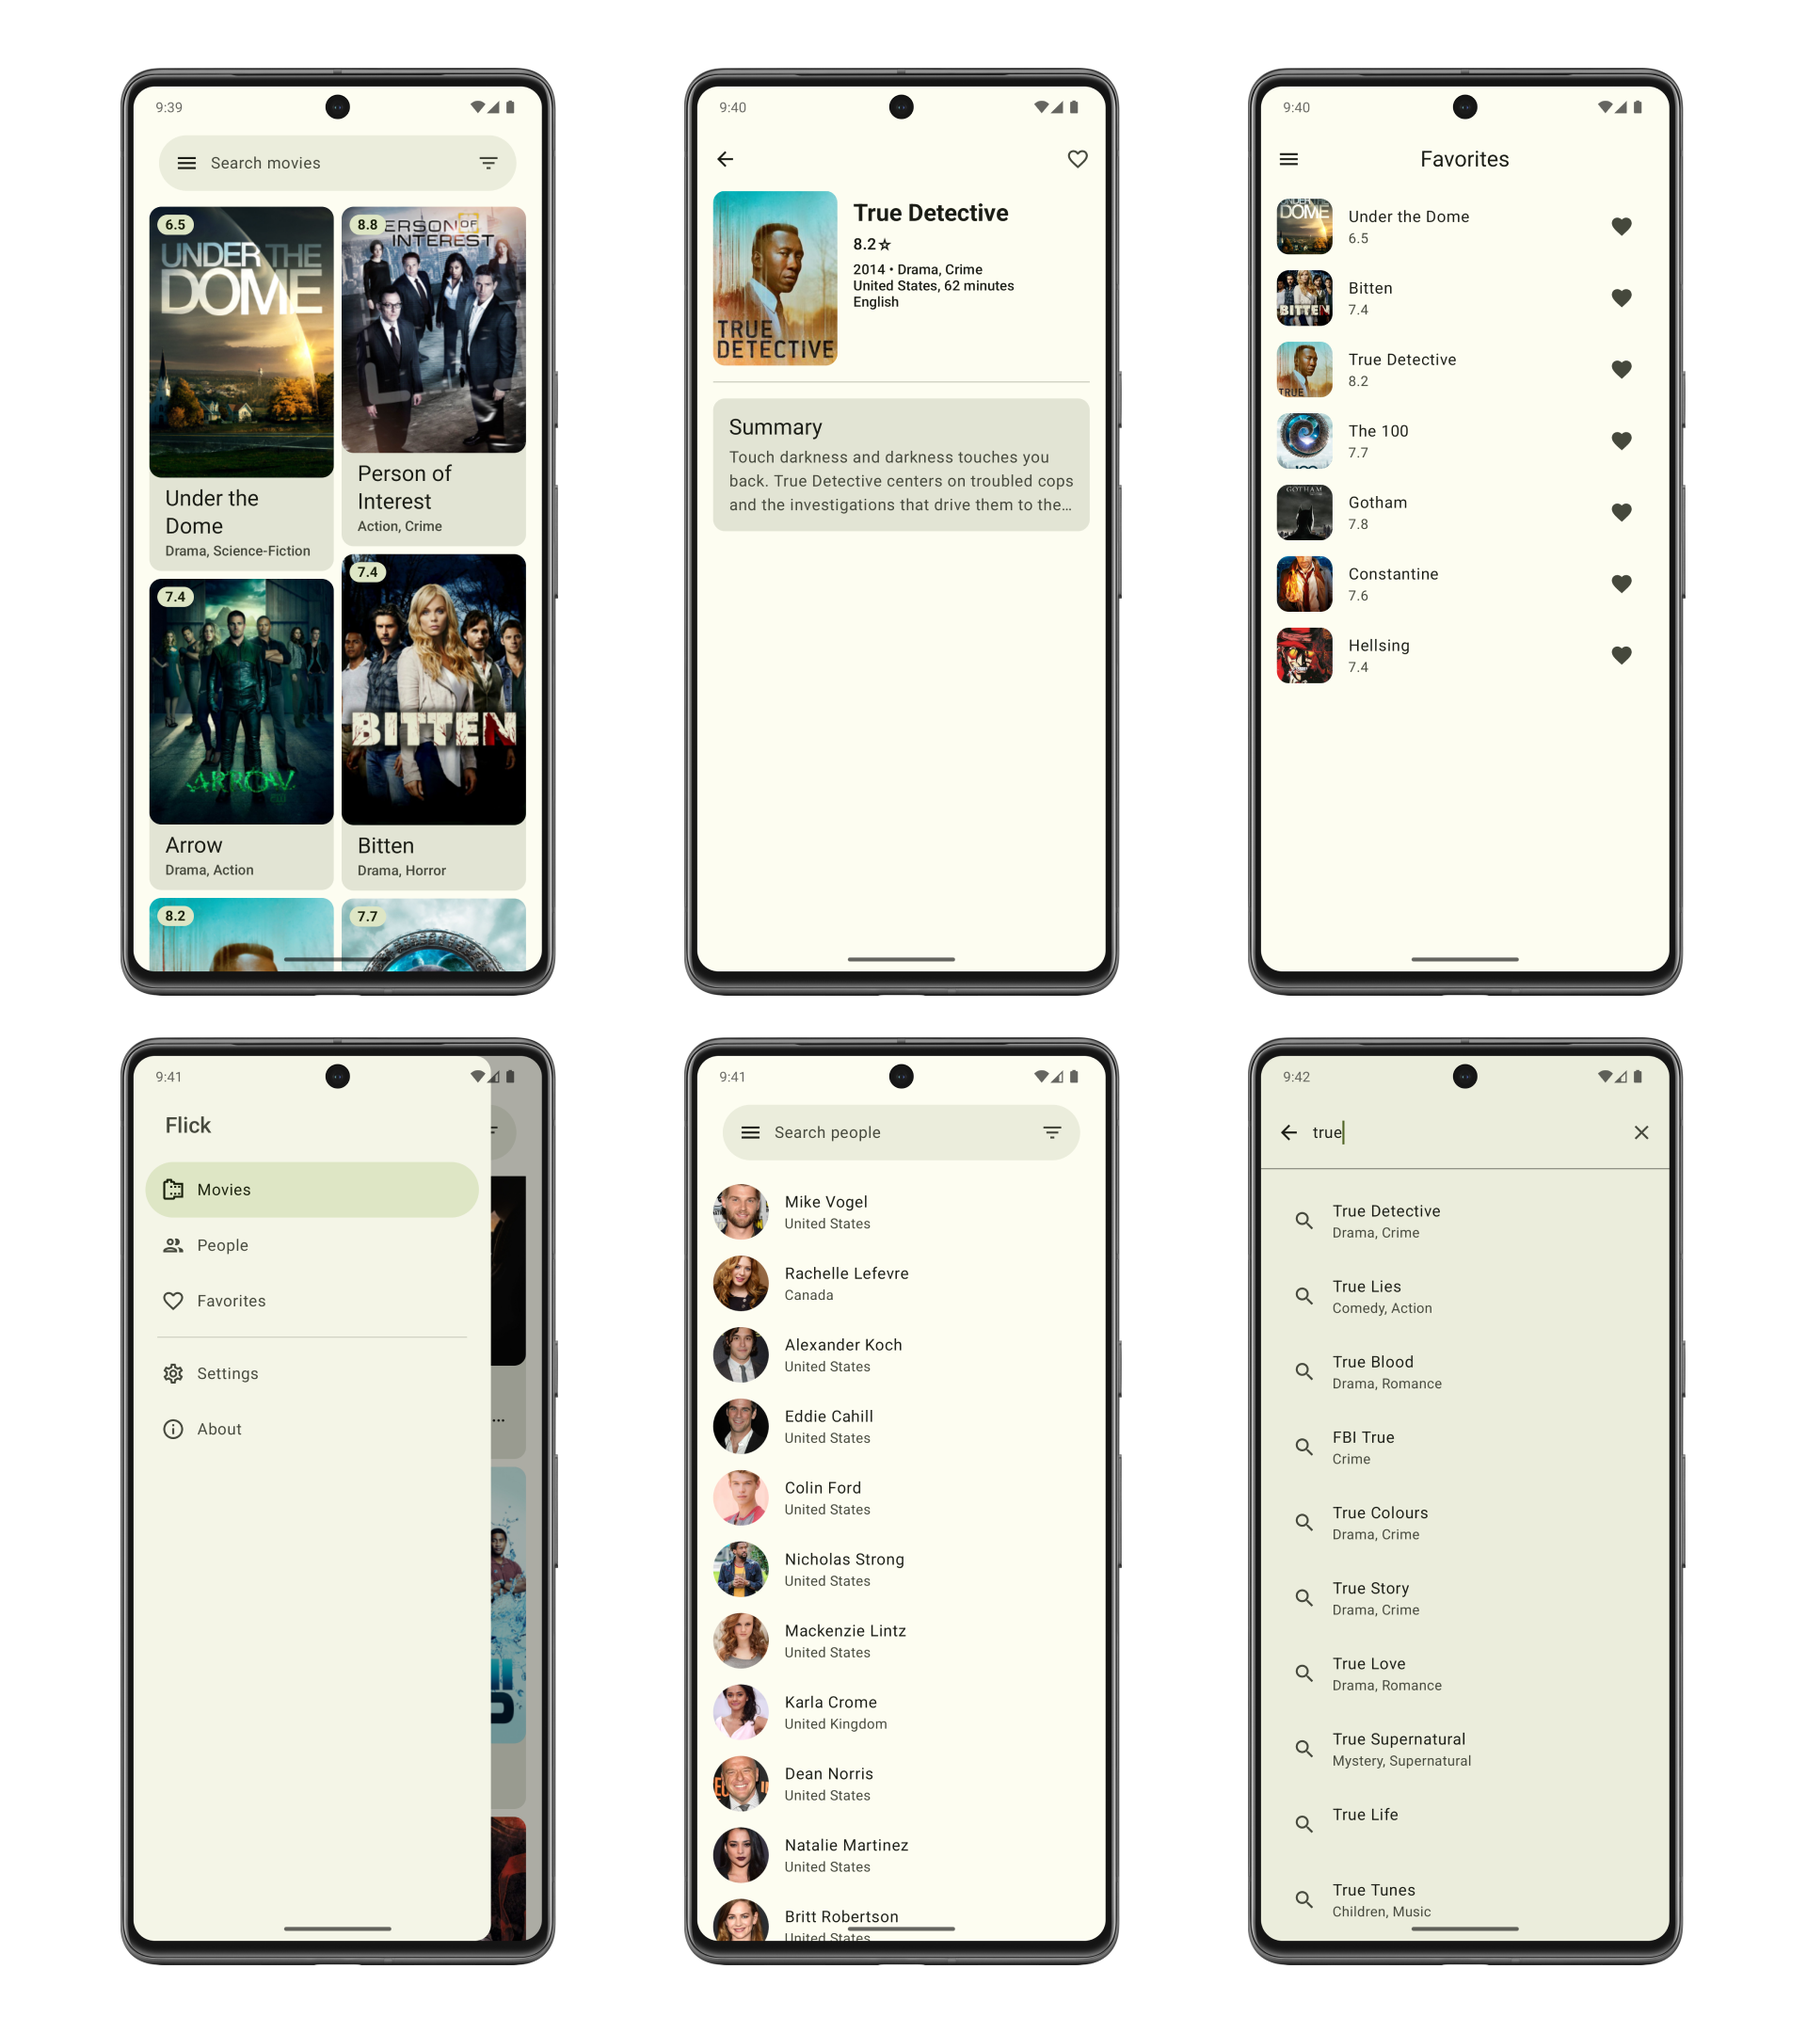
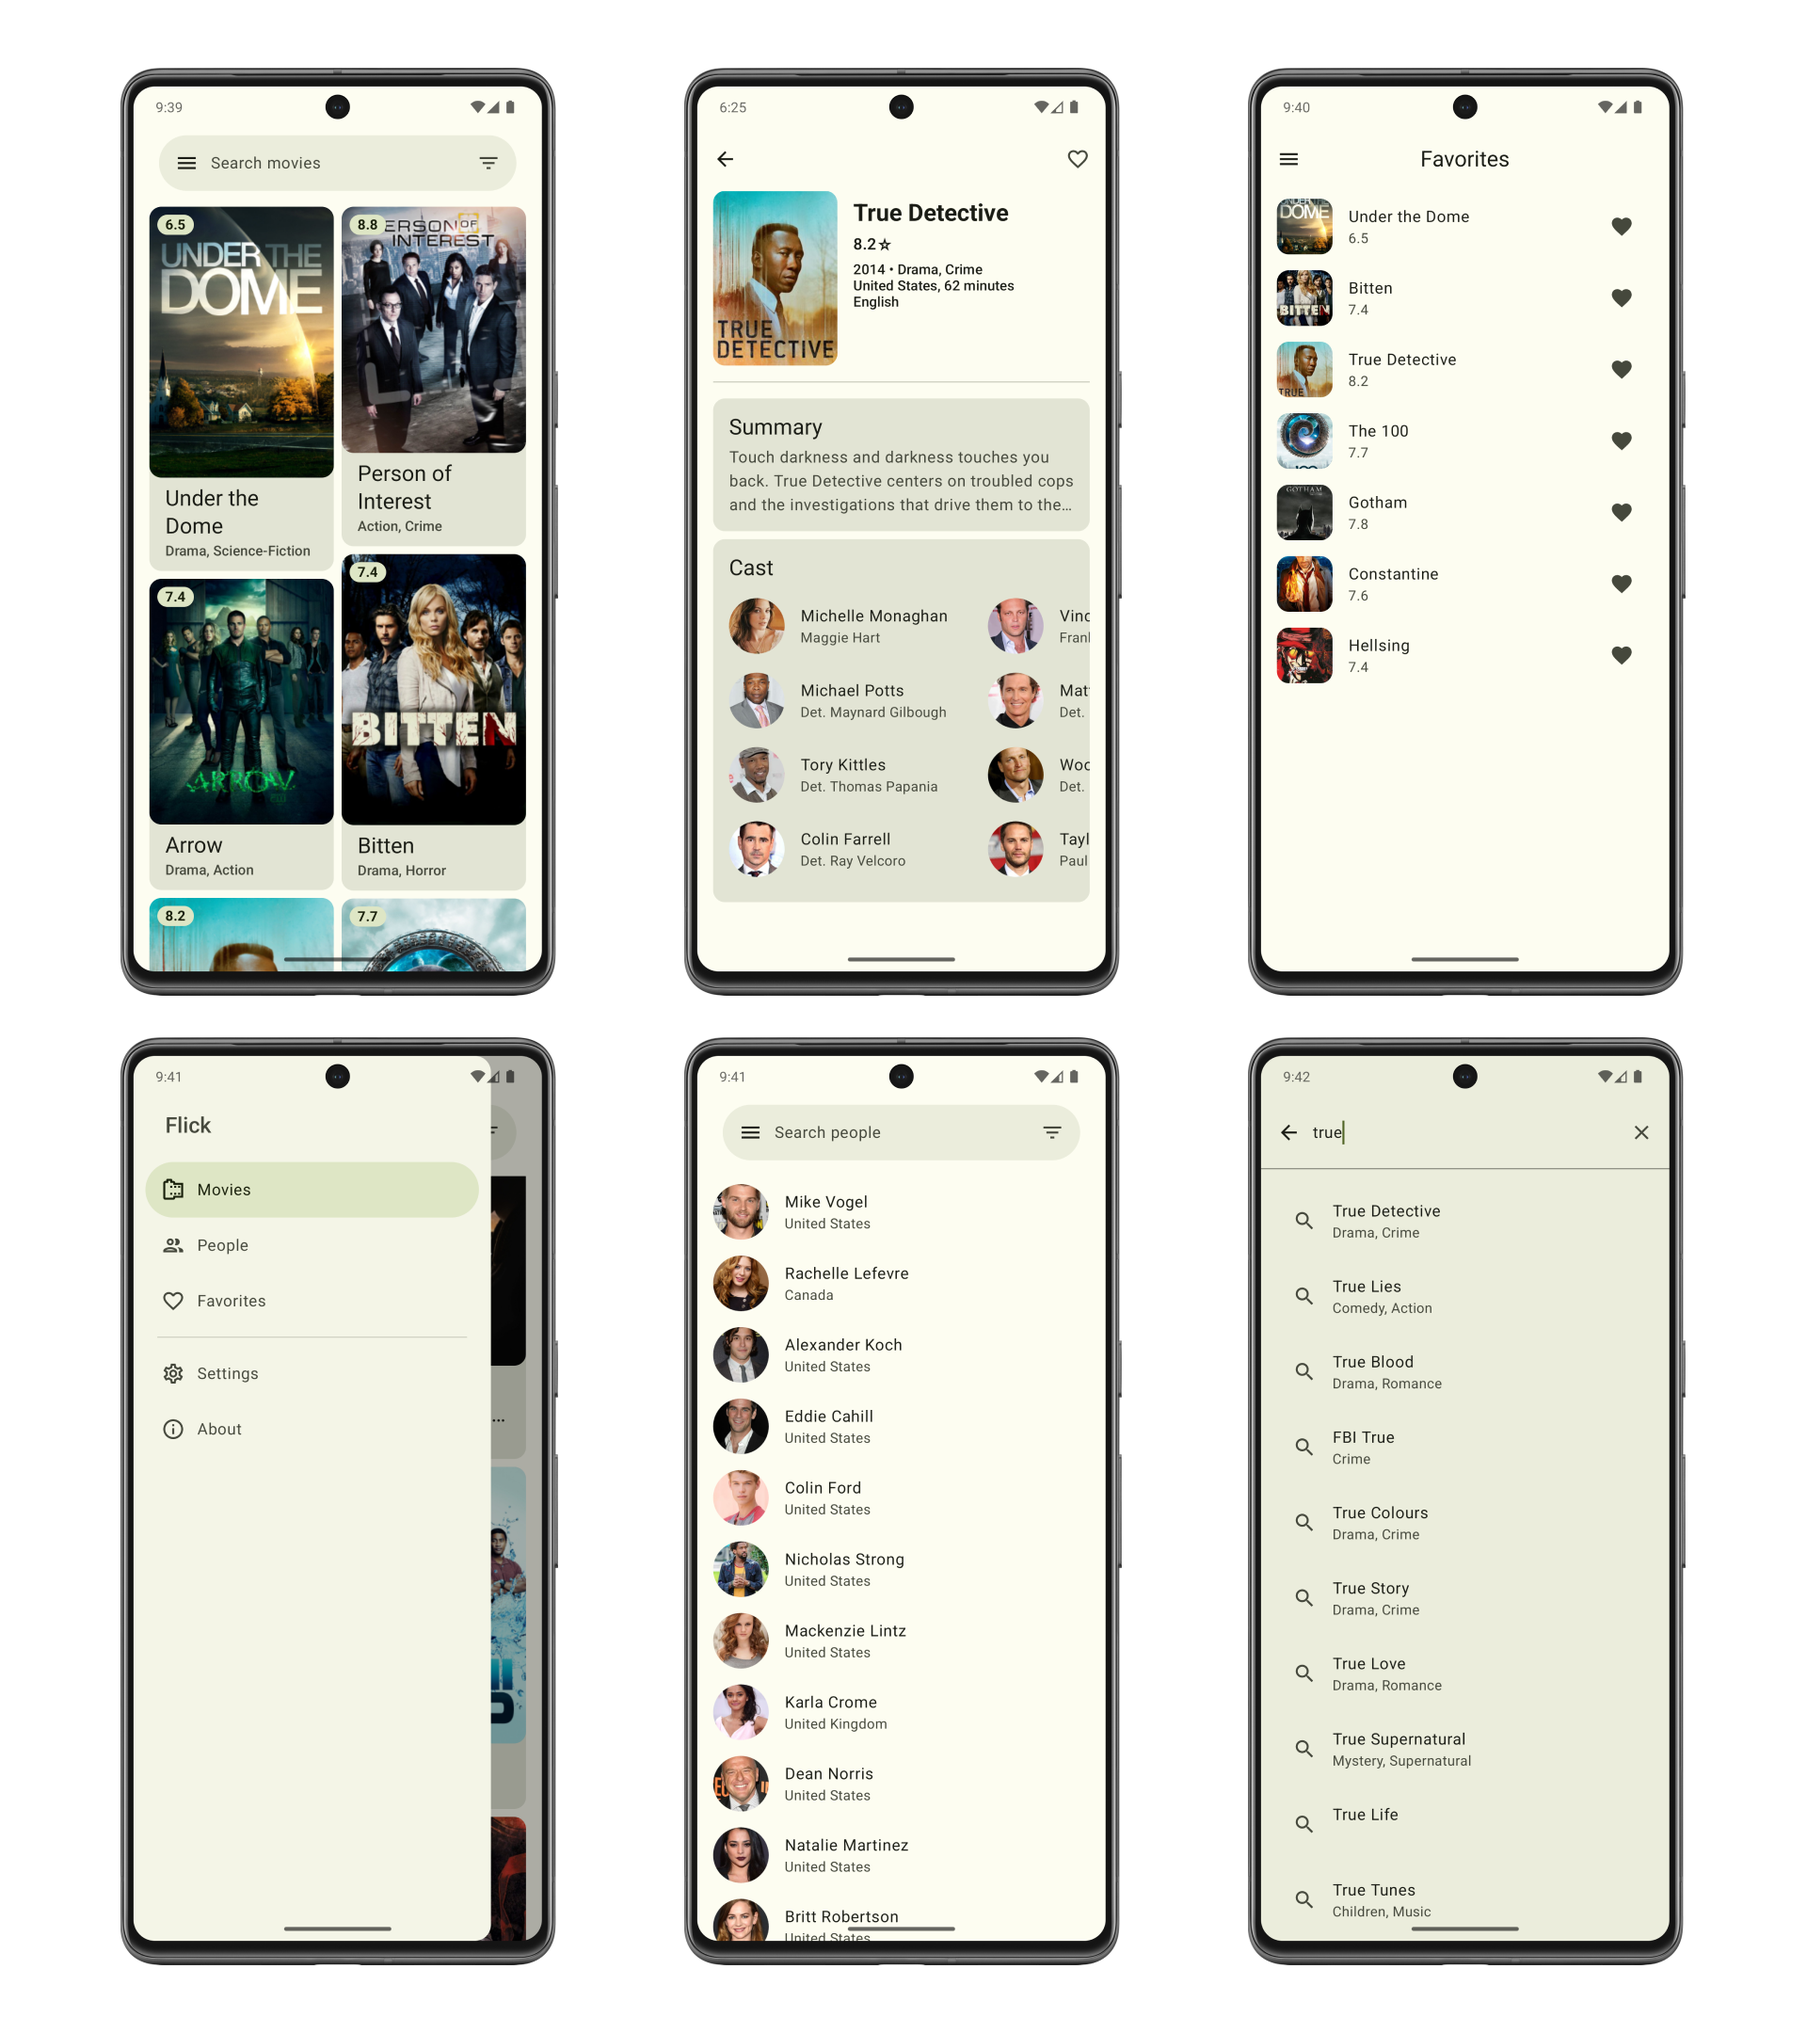
Update MovieScreen & Screenshots

Changed region(s): [[0.375, 0.2481, 0.625, 0.4653]]

diff --git a/app/src/main/java/ru/resodostudios/flick/feature/movie/presentation/MovieScreen.kt b/app/src/main/java/ru/resodostudios/flick/feature/movie/presentation/MovieScreen.kt
@@ -240,8 +240,8 @@ private fun Body(state: MovieUiState, onSummaryClick: () -> Unit, maxLines: Int)
                 )
 
                 LazyHorizontalGrid(
-                    rows = GridCells.Fixed(3),
-                    modifier = Modifier.height(200.dp)
+                    rows = GridCells.Fixed(4),
+                    modifier = Modifier.height(300.dp)
                 ) {
                     items(state.cast) { cast ->
                         ListItem(
@@ -261,7 +261,8 @@ private fun Body(state: MovieUiState, onSummaryClick: () -> Unit, maxLines: Int)
                                     )
                                 }
                             },
-                            colors = ListItemDefaults.colors(containerColor = Color.Transparent)
+                            colors = ListItemDefaults.colors(containerColor = Color.Transparent),
+                            supportingContent = { Text(text = cast.character?.name.toString()) }
                         )
                     }
                 }
